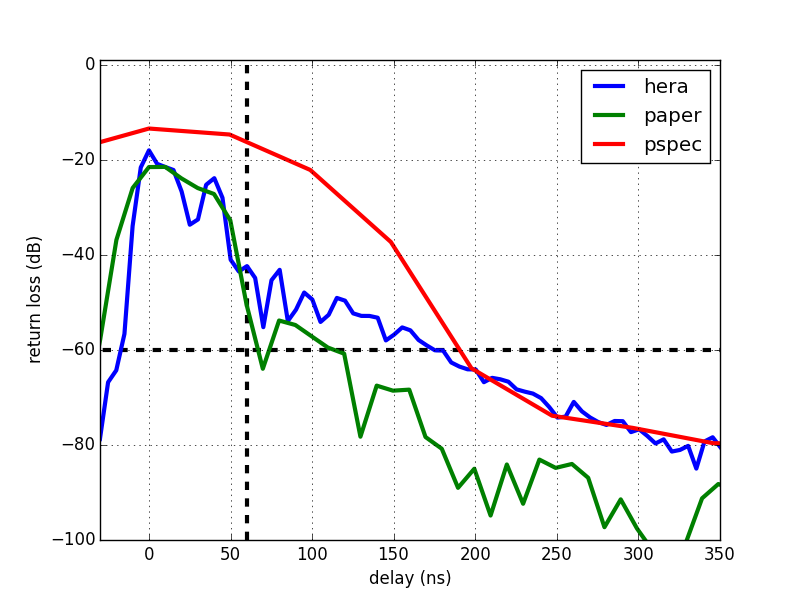
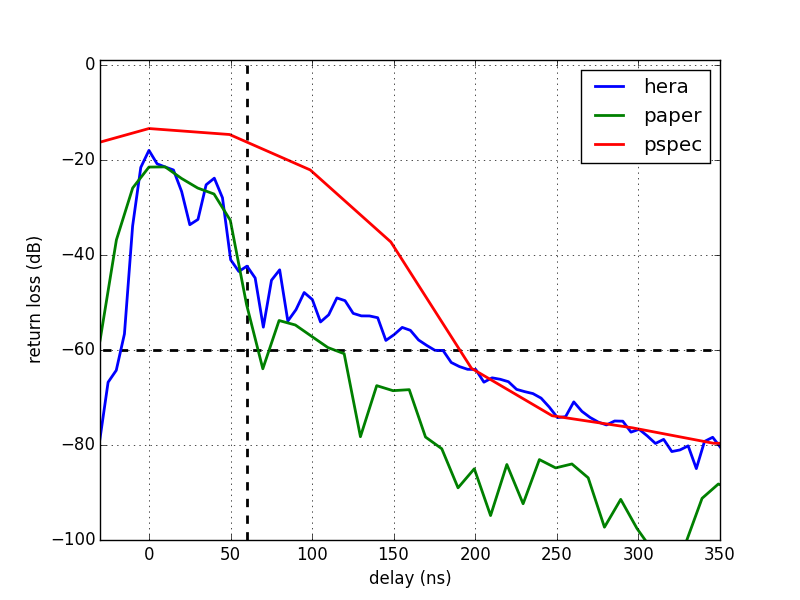
change axis label and update linewdiht

diff --git a/plots/plot_frequency.py b/plots/plot_frequency.py
@@ -10,7 +10,8 @@ def fromcsv(filename):
     return x[:,0]/1e9, x[:,1]
 
 
-file_base = sys.argv[1]
+#file_base = sys.argv[1]
+file_base = '../alldata/NC41_12'
 amp = '_DB.csv'
 phs = '_P.csv'
 freqs, amps = fromcsv(file_base + amp)
@@ -20,7 +21,7 @@ rloss = amps * n.exp(2j*n.pi*phase/360.)
 p.figure(figsize=(10,5))
 p.plot(freqs, rloss.real, linewidth=3, label='real')
 p.plot(freqs, rloss.imag, linewidth=3, label='imag')
-p.xlabel('Frequency (MHz)' )
+p.xlabel('Frequency (GHz)' )
 p.ylabel('Return Loss (dB)')
 p.grid(1)
 p.xlim(.05,.250)
@@ -42,7 +43,7 @@ ax1.vlines(.2, -100, 100, linestyle='--', linewidth=2)
 ax1.legend()
 
 ax2.plot(freqs, phase*n.pi/180., linewidth=3, label='Phase')
-ax2.set_xlabel('Frequency (MHz)' )
+ax2.set_xlabel('Frequency (GHz)' )
 ax2.set_ylabel('Return Loss (dB)')
 ax2.grid(1)
 ax2.set_xlim(.05,.250)

diff --git a/plots/plot_delay3.py b/plots/plot_delay3.py
@@ -56,11 +56,11 @@ valids = {
 for i,v in enumerate(valids.keys()):
     dw, d, tau = take_delay(amps[valids[v]], phs[valids[v]], fq[valids[v]])
     print v
-    p.plot(tau, 10*n.log10(n.abs(dw)**2), linewidth=3, label='%s'%v)
+    p.plot(tau, 10*n.log10(n.abs(dw)**2), linewidth=2, label='%s'%v)
 p.xlim(-30,350) 
 p.ylim(-100, 1)
-p.vlines(60, -100,100, linestyle='--', linewidth=3)
-p.hlines(-60,-100 ,500, linestyle='--', linewidth=3)
+p.vlines(60, -100,100, linestyle='--', linewidth=2)
+p.hlines(-60,-100 ,500, linestyle='--', linewidth=2)
 p.xlabel('delay (ns)')
 p.ylabel('return loss (dB)')
 p.grid(1)
